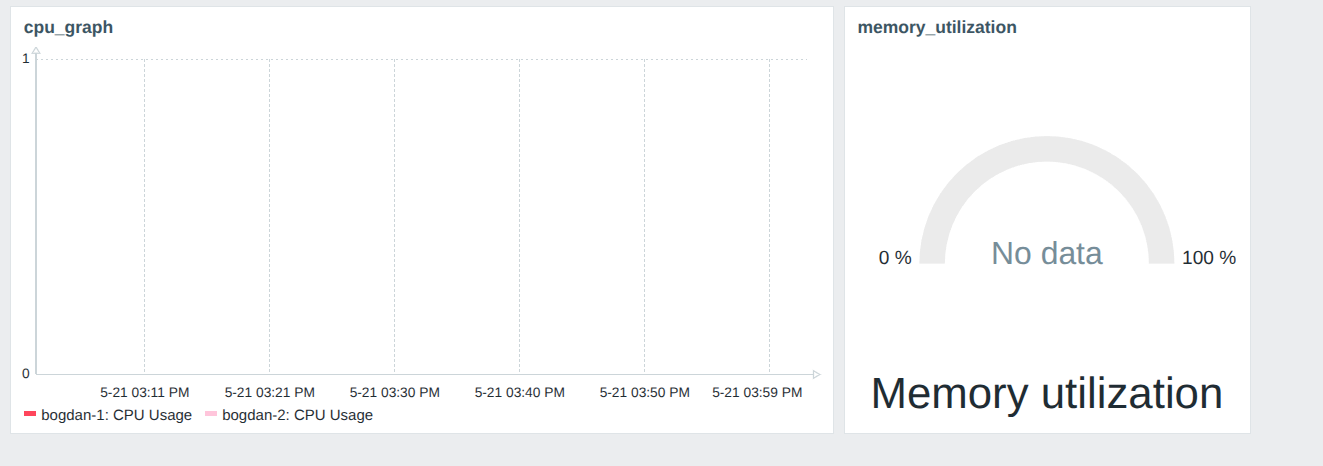
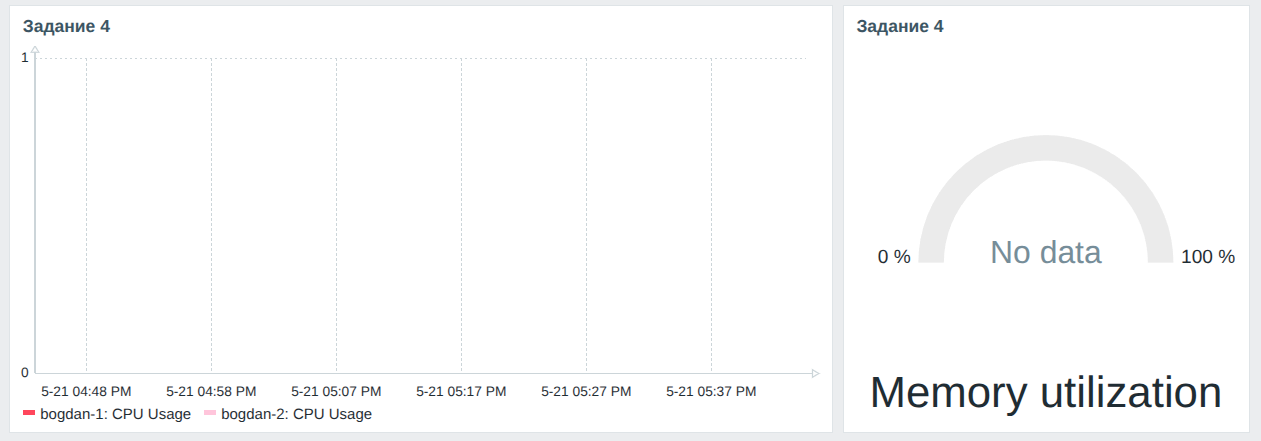
zabbix2 final

diff --git a/README.md b/README.md
@@ -29,7 +29,8 @@
 1. `Создаем сам шаблон и называем его bogdan_template`
 2. `Создаем items CPU and RAM`
 
-![task1](/img/task1.png)`
+![task1](/img/zadanie1.png)
+![task1](/img/task1.png)
 
 
 ---